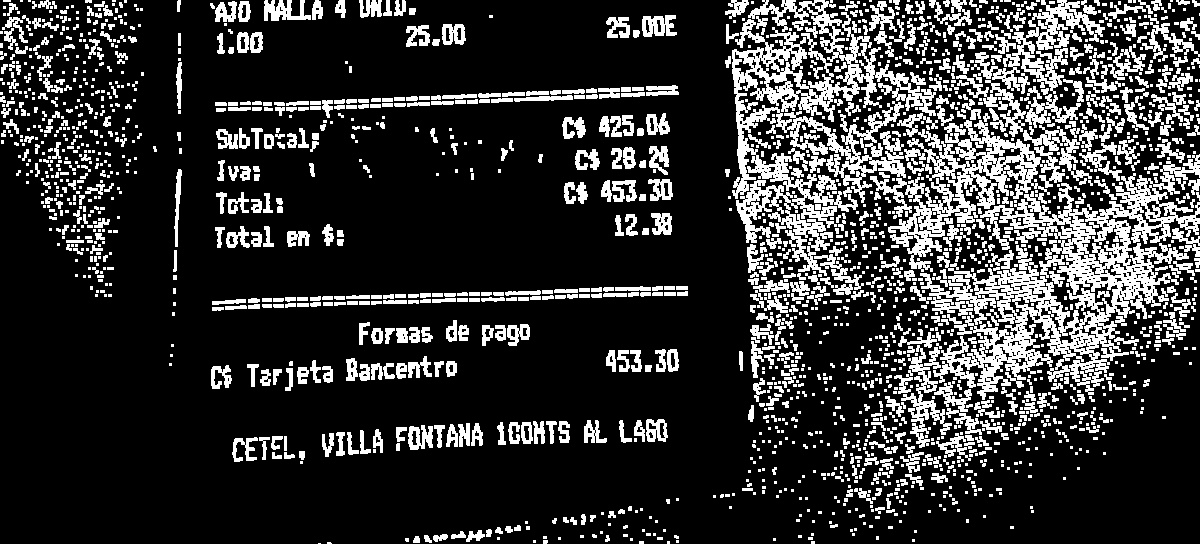
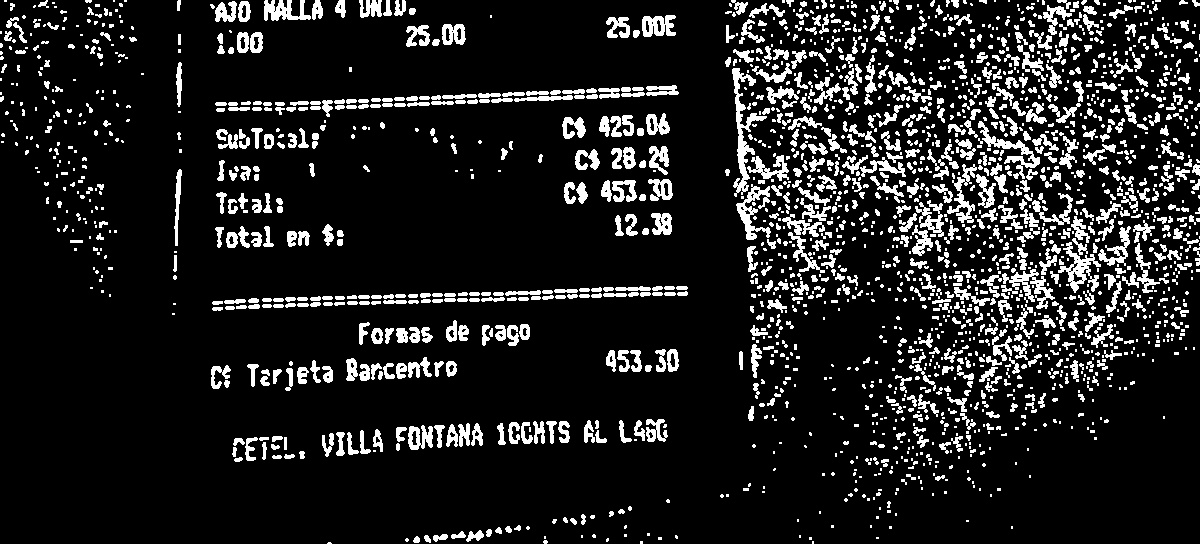
Denoised the bottom part, but no significant change. Next step is to find countours probably

Changed region(s): [[0.6167, 0.0, 1.0, 0.9375], [0.0, 0.0, 0.1233, 0.5312]]

diff --git a/misc/portasReceipt/preprocess.py b/misc/portasReceipt/preprocess.py
@@ -84,7 +84,7 @@ def remove_borders(image):
 
 
 pytesseract.pytesseract.tesseract_cmd= 'C:/Program Files/Tesseract-OCR/tesseract.exe'
-text = pytesseract.image_to_string("portasInverted_Dilated.jpeg", config = '--psm 11 --oem 3 dawg')
+text = pytesseract.image_to_string("finished_portasimage.jpeg", config = '--psm 11 --oem 3 dawg')
 print(text)
 
 original = cv2.imread('portasdecente.jpeg')
@@ -119,16 +119,23 @@ inverted_dilation = thick_font(inverted)
 height = inverted_dilation.shape[0]
 bottom_start = int(height * 0.66) 
 invertioncheck = cv2.bitwise_not(inverted_dilation)
-bottom_zone = invertioncheck[bottom_start: , :]
+top_zone = inverted_dilation[:bottom_start, :] ##image here is in white background
+bottom_zone = noise_removal(invertioncheck[bottom_start: , :]) ##image here is in black background 
 kernel = np.ones((2,2), np.uint8)
 
-targeted_dilation = cv2.dilate(bottom_zone, kernel, iterations = 1)
+targeted_dilation = cv2.dilate(bottom_zone, kernel, iterations = 1) ##takes black background white letters to dilate them
+reversedilation = cv2.bitwise_not(targeted_dilation) ##reverse dilation again cause i think it makes more sense to have all the joined image in white background
+finished_image = np.concatenate((top_zone, reversedilation), axis = 0) ##now with the finished image i should make more things to it, probably quiet down noise since there are a lot of pixels
 
+##Reducing more noise to the new concatenated image
+reversedagain = cv2.bitwise_not(finished_image)
 
-
+finished_noise = noise_removal(reversedagain)
 ###DESKEWED image
 fixed = deskew(testDeskew)
-
+cv2.imwrite("reversedTEST.jpeg", reversedagain)
+cv2.imwrite("finished_nonoise.jpeg", finished_noise)
+cv2.imwrite("finished_portasimage.jpeg", finished_image)
 cv2.imwrite("testDESKEW.jpeg", fixed)
 cv2.imwrite("portasDILATED.jpeg", dilated_image)
 cv2.imwrite("portasERODED.jpeg", eroded_image)
